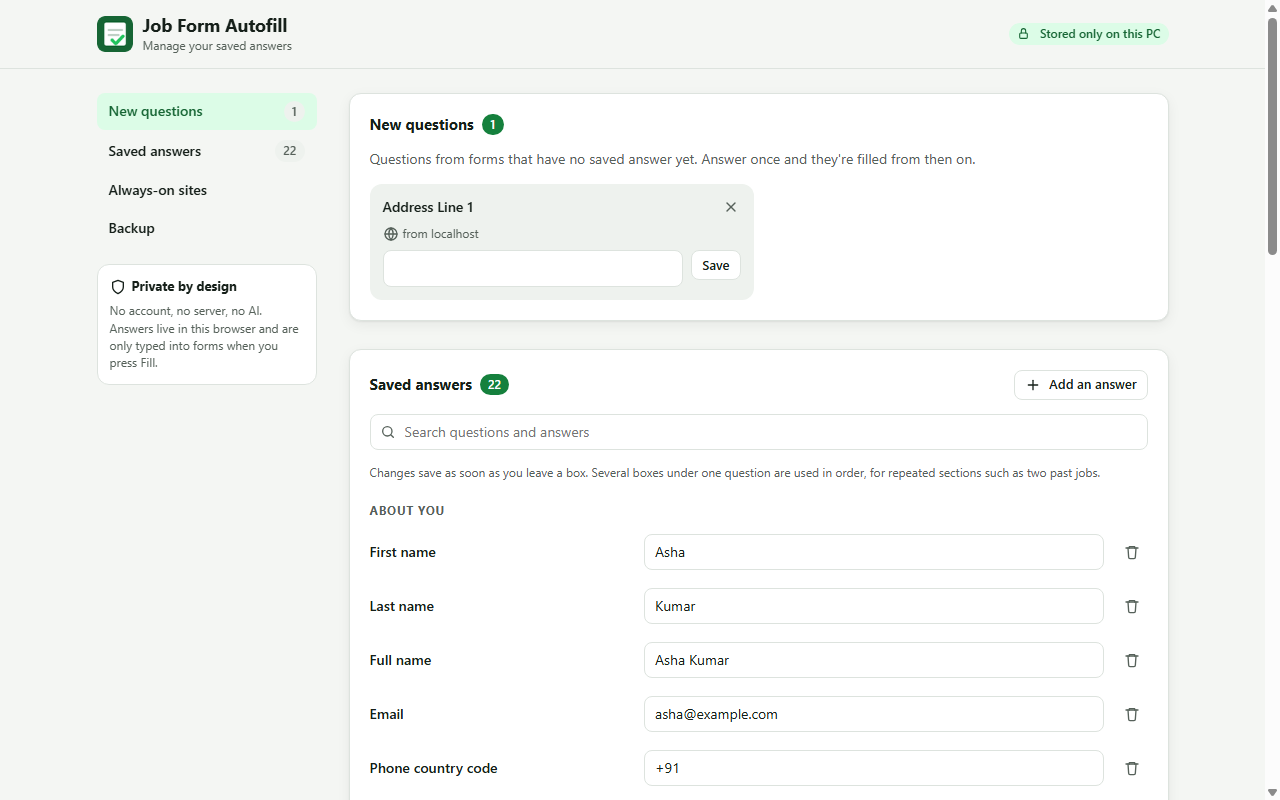
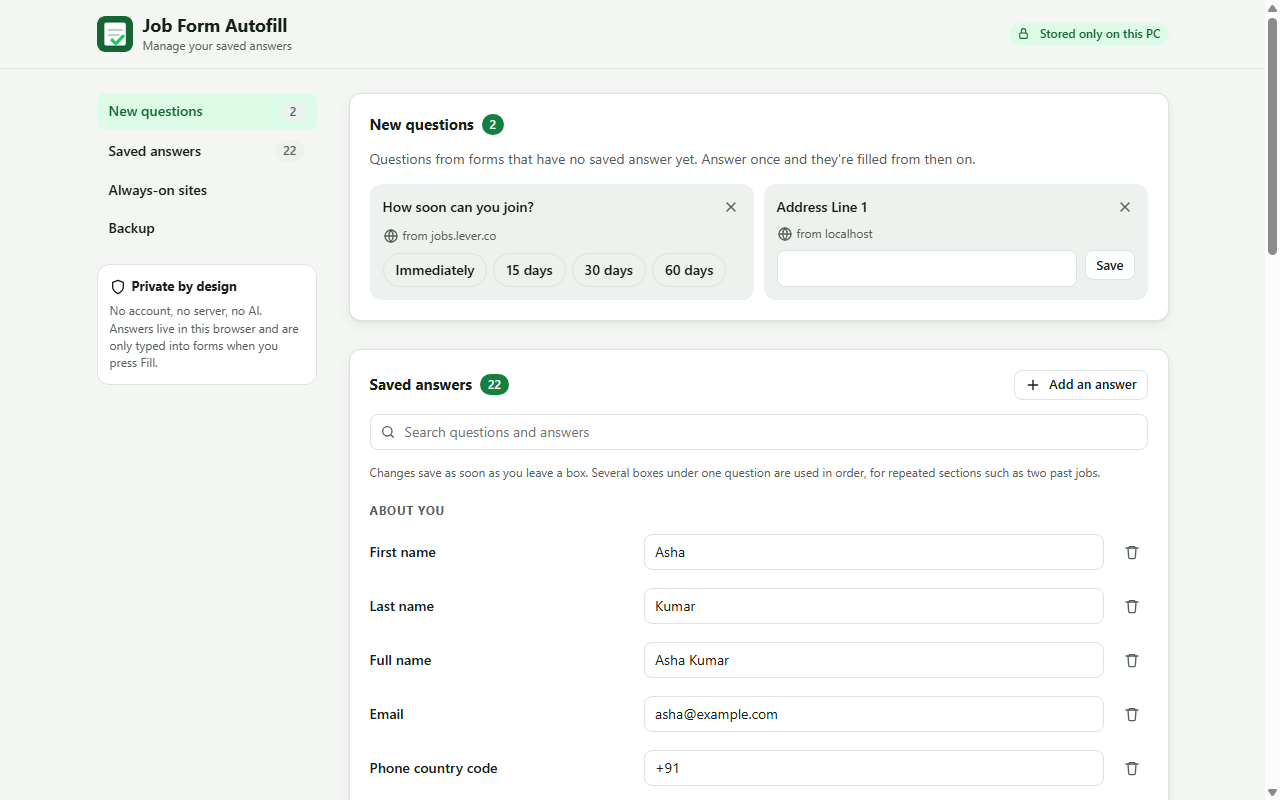
Tests: realistic sample questions so screenshots show one-tap answers; refresh store screenshot

Changed region(s): [[0.2812, 0.25, 0.5625, 0.3438], [0.5938, 0.25, 0.6875, 0.3125], [0.8438, 0.3125, 0.875, 0.3438]]

diff --git a/tests/e2e.js b/tests/e2e.js
@@ -278,7 +278,10 @@ async function main() {
     check('no access gives a clear error', !!err && /Cannot access|permission/i.test(err), err);
 
     // --- 7. Popup and options pages ---
-    await swEval(`chrome.storage.local.set({ 'u:do you enjoy testing': { question: 'Do you enjoy testing?', kind: 'radio', options: ['Yes', 'No'], host: 'localhost', seenAt: Date.now() + 60000 } })`);
+    await swEval(`chrome.storage.local.set({
+      'u:can you work from our bengaluru office': { question: 'Can you work from our Bengaluru office?', kind: 'radio', options: ['Yes', 'No'], host: 'boards.greenhouse.io', seenAt: Date.now() + 60000 },
+      'u:how soon can you join': { question: 'How soon can you join?', kind: 'select', options: ['Immediately', '15 days', '30 days', '60 days'], host: 'jobs.lever.co', seenAt: Date.now() + 30000 },
+    })`);
     const pop = await openPage(`chrome-extension://${extId}/popup/popup.html`);
     await sleep(500);
     const chipCount = await pop.eval(`document.querySelectorAll('#unknownList li:first-child [data-choice]').length`);
@@ -296,7 +299,7 @@ async function main() {
     })()`);
     await sleep(400);
     const popAfter = await pop.eval(`document.getElementById('status').textContent`);
-    const chipSaved = await swEval(`chrome.storage.local.get('a:do you enjoy testing').then(r => r['a:do you enjoy testing'])`);
+    const chipSaved = await swEval(`chrome.storage.local.get('a:can you work from our bengaluru office').then(r => r['a:can you work from our bengaluru office'])`);
     check('answering in the popup saves it', /Saved/.test(popAfter) && answered === 'chip' && chipSaved && chipSaved.value === 'Yes', { answered, popAfter, chipSaved });
 
     // Structure: every control has a name a screen reader can say, ids are unique, one h1.
@@ -359,7 +362,7 @@ async function main() {
       })()`);
       for (const scheme of ['light', 'dark']) {
         const suffix = scheme === 'light' ? '' : '-dark';
-        for (const [name, page, w, h] of [['popup', pop, 380, 760], ['options', opt, 1280, 800], ['filled-form', gh, 1280, 800]]) {
+        for (const [name, page, w, h] of [['popup', pop, 380, 900], ['options', opt, 1280, 800], ['filled-form', gh, 1280, 800]]) {
           await send('Emulation.setEmulatedMedia', { features: [{ name: 'prefers-color-scheme', value: scheme }] }, page.sessionId);
           await send('Emulation.setDeviceMetricsOverride', { width: w, height: h, deviceScaleFactor: 1, mobile: false }, page.sessionId);
           await sleep(400);
